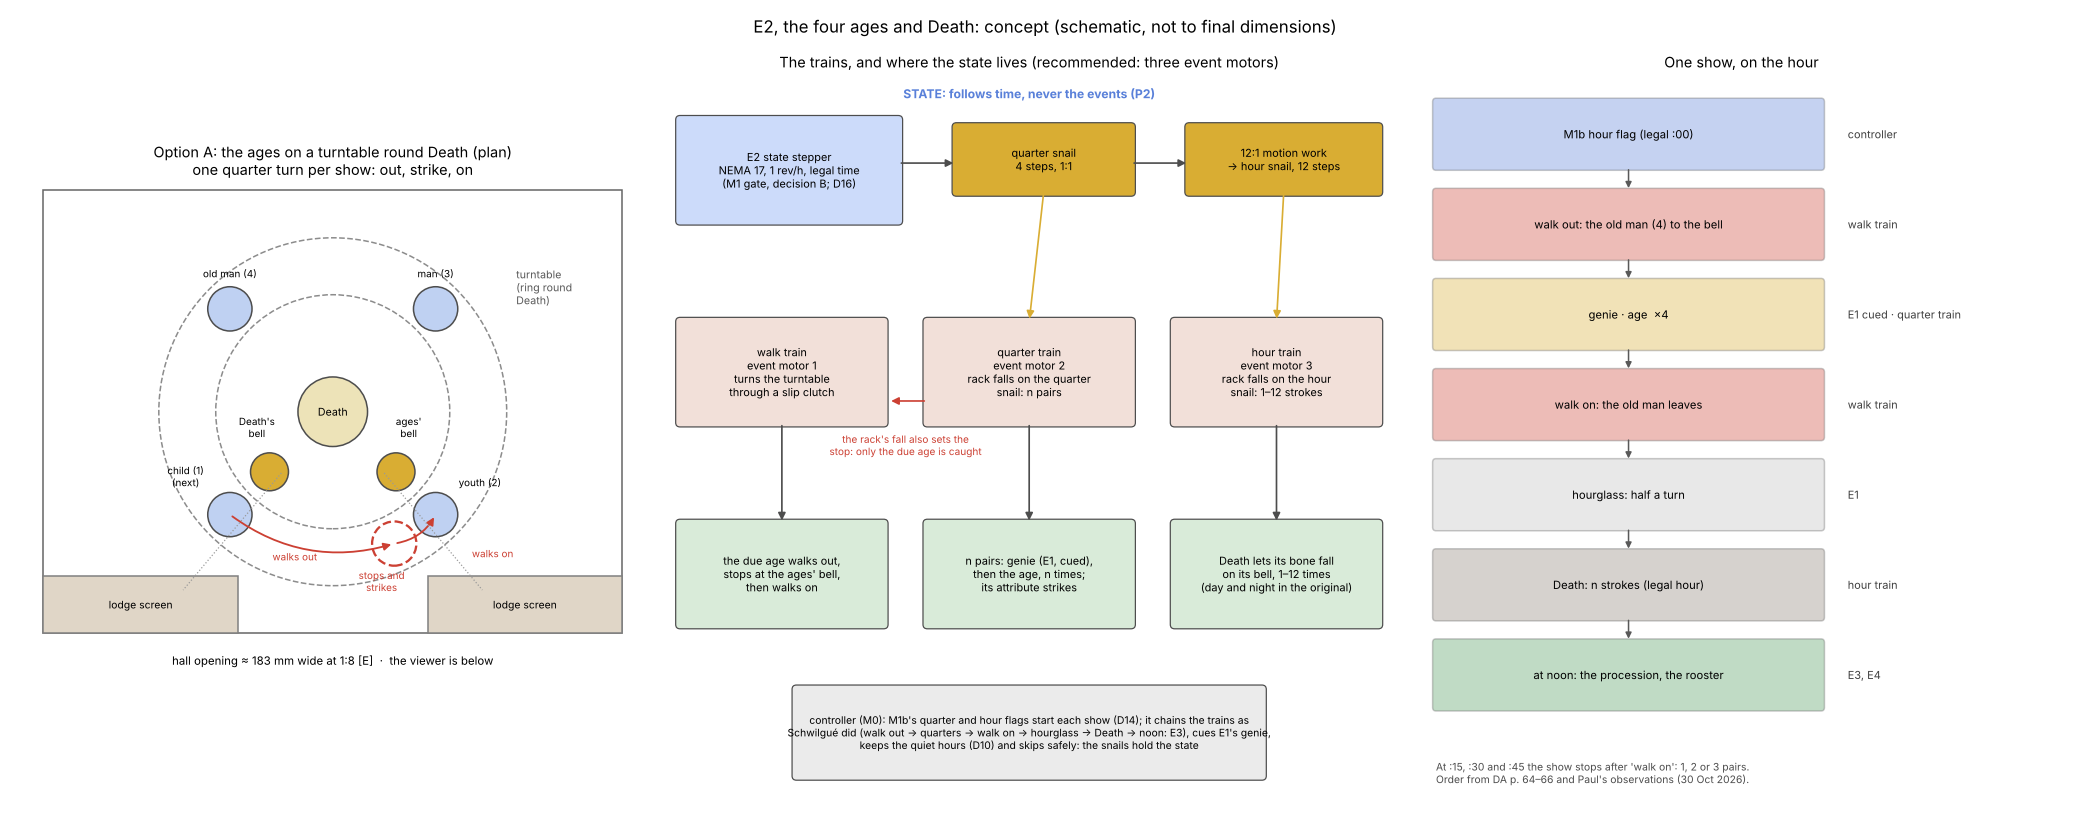
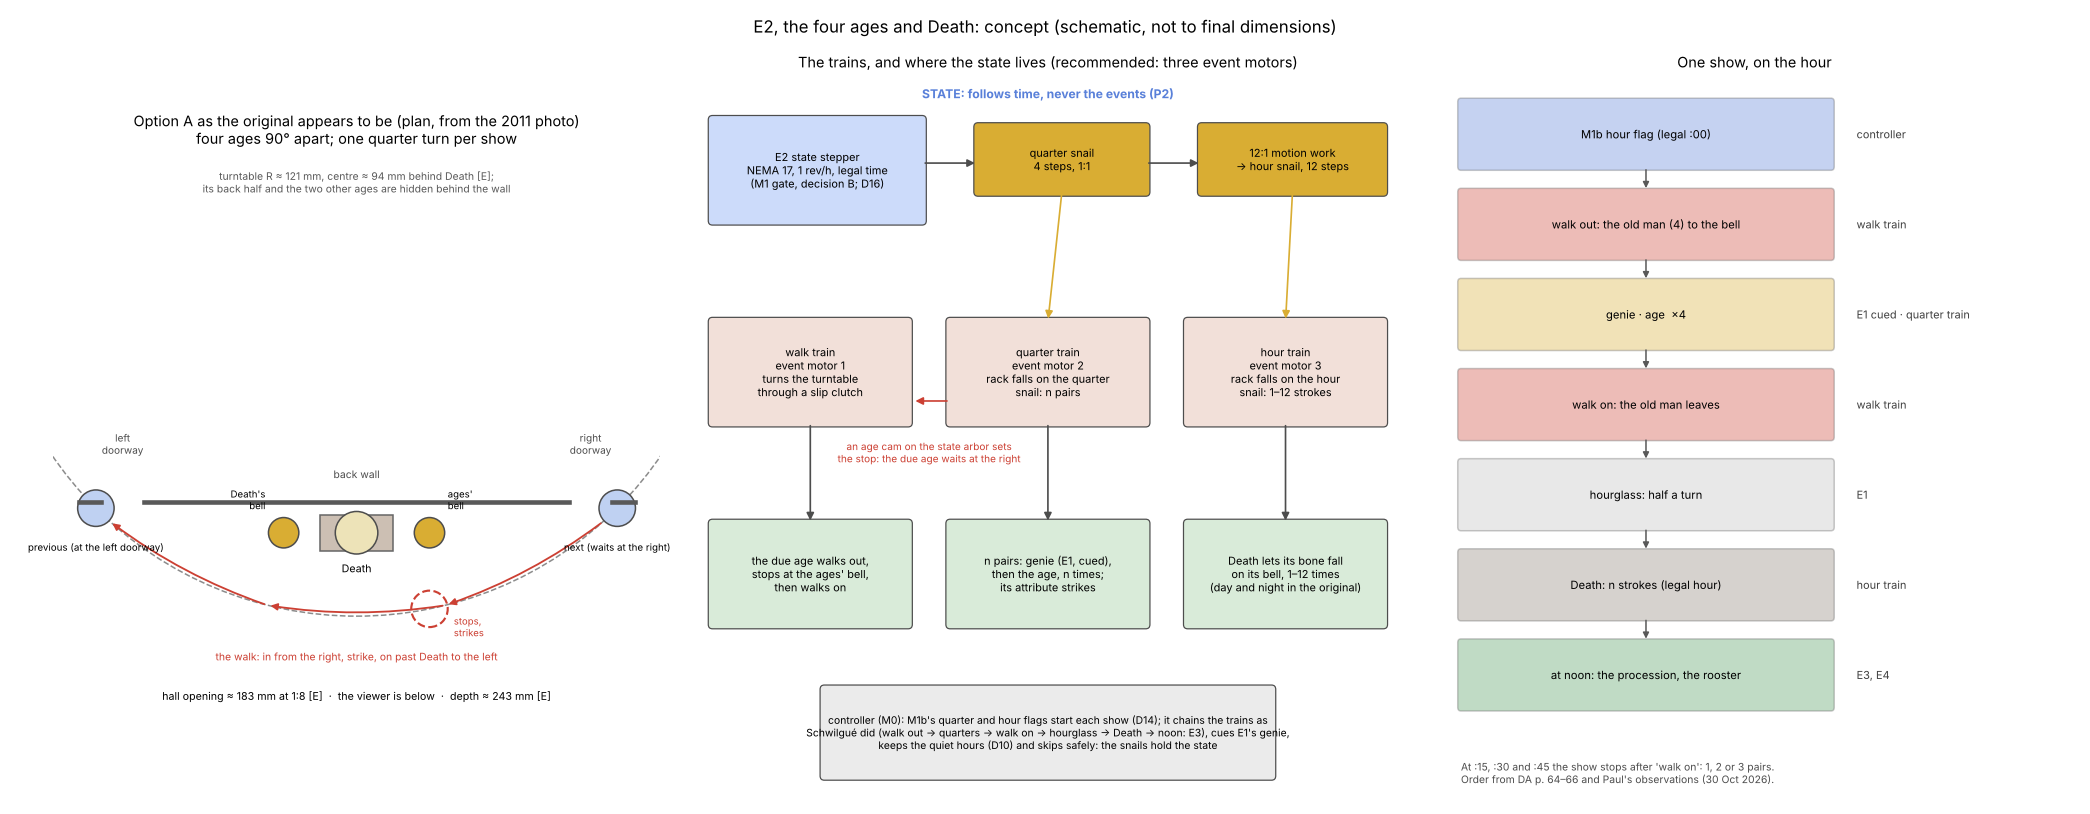
E2 concept: what the 2011 photograph of the lower hall shows
Paul found a public-domain photograph (Tangopaso, Wikimedia Commons, 7 Dec
2011, 12:24 CET = 11:55 mean time) of the hall at rest.

- Two ages are in view between shows: the last at the left doorway, the next
  waiting at the right. They walk right to left: in from the right doorway,
  strike the right-hand bell, on past Death, out by the left doorway.
- So the waiting age must be right between shows: the turntable's stop is now
  set by an age cam on the state arbor (the due age waits at the right), and
  the controller runs the walk train alone after quiet hours or a power cut.
- Death ≈ 0.62 m (0.52-0.74), so ≈ 78 mm at 1:8; bells ≈ 21 mm, ±24 mm from
  Death [E, method in e2-design §2 and reference-notes].
- The doorways and rest positions fit a ring of R ≈ 121 mm centred ≈ 94 mm
  behind Death, ≈ 243 mm deep at 1:8: a new question on the depth budget.
- Schematic redrawn to that geometry; photo crop committed with credit;
  reference-notes corrected (the 2026 photos frame only the centre);
  envelope figures row updated.

Claude-Session: https://claude.ai/code/session_01Tndyw9tksT61hV2osW21zT

diff --git a/docs/e2-design.md b/docs/e2-design.md
@@ -9,7 +9,16 @@ Death strikes the hour.
 
 <p align="center"><img src="img/e2/e2_concept.png" width="980" alt="Schematic: the hall in plan with the four ages on a turntable round Death and the two bells; the trains and where the state lives; the order of one show on the hour"></p>
 
-*Schematic only, not to final dimensions. The hall's width is from `docs/envelope.md` §3 [E].*
+*Schematic only, not to final dimensions. The hall's width is from `docs/envelope.md` §3 [E]. The
+hall's plan is scaled from the 2011 photograph below [E].*
+
+<p align="center"><img src="img/e2/original_lower_hall_2011.jpg" width="760" alt="The original lower hall on 7 December 2011 at 12:24 CET: Death on its pedestal between two bells; the man (third quarter) going into the left doorway, back turned; the old man (fourth quarter) waiting at the right with his crutch"></p>
+
+*The lower hall at rest, 7 Dec 2011, 12:24 CET, which is 11:55 Strasbourg mean time [D: mean =
+CET − 29 min]. The man struck at 11:45 and stands at the left doorway, back turned. The old man,
+who strikes at 12:00, waits at the right. Photograph: Tangopaso, Wikimedia Commons,
+"Death_and_old_man_of_the_astronomical_clock_of_Strasbourg.jpg", released into the public domain
+(crop, downscaled). Found by Paul.*
 
 ## 1. What E2 does
 
@@ -36,8 +45,17 @@ Death strikes the hour.
     the bell at its right, which is the **viewer's left**, 1 to 12 times, day and night.
   - Paul's photographs IMG_0769 and IMG_0770 (10:10 CET) show:
     - Death with the bone raised in its right hand and the scythe in its left;
-    - a bell on each side of Death;
-    - **no age in view**: between quarters every age is hidden.
+    - a bell on each side of Death.
+  - Those two photographs frame only the centre of the hall, so they do not show the doorways.
+- **The hall at rest** [S: the 2011 photograph above; its clock agrees with the shows' schedule].
+  - **Two ages are in view between shows.** The one that struck last stands at the left doorway
+    with its back turned. The next one waits at the right, facing Death.
+  - **They walk from right to left.** Each comes in from the right doorway, strikes the bell at the
+    viewer's right of Death, walks on in front of Death, and goes out by the left doorway. That
+    matches Paul's "walks on past Death".
+  - The bells hang mouth down from curved brackets on posts, one either side of Death at about its
+    waist.
+  - The doorways sit at the two ends of the back wall. The hall's front is convex, a shallow bay.
 - **The order of the trains** [S: DA p. 64–66, quoted in `docs/architecture.md` §5].
   - Schwilgué gave E2's work to **three separate trains**:
     1. the "rouage des quatre âges" moves the age out;
@@ -60,9 +78,12 @@ Death strikes the hour.
 | Height of the hall | ≈ 1324 mm above the floor at 1:8; E3's hall ≈ 149 mm above it | [E: envelope §2]; [D: 1473 − 1324] |
 | Hall opening | ≈ 1.46 m wide, so **≈ 183 mm at 1:8** | [E: envelope §3] |
 | Depth available | TBD: the case depth is still open | `docs/reference-notes.md`, open items |
-| Figure heights (ages, Death) | **[?] ≈ 57 mm or ≈ 88 mm at 1:8**: 0.46 m in one source, ≈ 0.70 m as drawn on the plate | [S: WIKI] vs [E: plate]; envelope §3 says "resolve with a photo" (§7, question 1) |
-| Bells | two, either side of Death, each about 0.44 of Death's visible height wide, so **≈ 25–40 mm at 1:8** if Death is 0.46–0.70 m | [E: measured on IMG_0770, ±25 %] |
-| Which way the ages walk | in front of Death to the bell at the viewer's right, then on past Death; the side they enter from is not recorded | [S: Paul's observation]; the entry side is [?] (§7, question 2) |
+| Death's height | **≈ 0.62 m, so ≈ 78 mm at 1:8** (range 0.52–0.74 m, 65–92 mm) | [E: 2011 photograph. Death is 0.349 of the hall's width as seen, corrected by 1/cos 35° for the upward view; 0.349 × 1.46 m / 0.82. The view angle comes from the bells' rim ellipses (axis ratio 0.58–0.64, so 35–40°; 30° allowed for tilt). The hall's width is ±11 % (envelope §3)] |
+| The ages' heights | the old man as tall as Death, though stooped; the man appears about 0.8 of Death, but he is turned away in the doorway; the youth and the child are not in the photograph | [E: same photograph]; [?] for the child and the youth |
+| Bells | **≈ 0.17 m across, so ≈ 21 mm at 1:8**, their centres ≈ 24 mm either side of Death's axis | [E: 0.113 and 0.133 of the hall's width; widths are not foreshortened; ±11 %] |
+| Which way the ages walk | **in from the right doorway, strike at the right-hand bell, on past Death, out by the left doorway** | [S: 2011 photograph and Paul's observation] |
+| Rest state | the last age stands at the left doorway, the next waits at the right; both in view | [S: 2011 photograph, 12:24 CET = 11:55 mean time, between the 11:45 and 12:00 shows] |
+| Turntable that fits these positions | four ages 90° apart on a ring of R ≈ 121 mm, its centre ≈ 94 mm behind Death; the front of the ring ≈ 27 mm in front of Death; **≈ 243 mm deep in all** | [D: a circle through both doorways (±0.42 of the hall's width, at Death's depth) and 0.15 of the width in front of Death; the photograph's rest positions (±0.41 and −0.46 of the width) fall at ±45° on it] |
 | Stroke cadence | not recorded | [?] (§7, question 2) |
 | How the original moves the ages | not described in DA; Ungerer 1922 and Bach et al. 1992 may show it | [?]: the books are still to obtain |
 | State arbor | 1 rev/h, legal time; quarter snail 1:1; hour snail through 12:1 (12/48 · 15/45, as M1's motion work) | [S: M1 gate, decision 1; architecture §3] |
@@ -83,8 +104,10 @@ As everywhere: **pass timing electrically and position mechanically** (architect
 - What must match the time is in the state train: which age is due, how many pairs, and Death's
   count.
 - The event motors only supply the energy for each show.
-- Between shows every age is hidden, so a skipped show (quiet hours, catch-up, a fault) can never
-  leave anything visibly wrong.
+- **Between shows the next age is in view**, waiting at the right. So a skipped show (quiet
+  hours, catch-up, a fault) would leave the wrong age waiting. The walk train therefore always
+  stops on an age chosen by the state train (4.2), and the controller runs it alone, silently,
+  after any skip (4.5).
 
 ## 4. Proposed concept
 
@@ -103,22 +126,29 @@ As everywhere: **pass timing electrically and position mechanically** (architect
 **4.2 The quarter train: the count and the choice of age.**
 - When released, a rack falls onto the quarter snail. Its fall (1–4 steps) sets the number of pairs,
   as in rack quarter-striking.
-- **The same fall also picks the age.** The rack positions a stop finger at one of four radii.
+- **The state train picks the age.** A four-step age cam on the state arbor sets a stop finger at
+  one of four radii.
   - Each age has a peg at its own radius on the turntable (option A, §5).
-  - So only the due age's peg meets the finger.
+  - So only the age that is due next can stop at the waiting position, at the right doorway.
+  - The age cam steps just after each show starts, a quarter ahead of the quarter snail.
+    Whenever the walk train stops, the next due age is waiting.
 - Each stroke cycle closes a cue switch. The controller fires E1's genie, and the age's stroke
   follows a moment later on the cam.
 - The age strikes the ages' bell with its attribute. A lifter at the bell station raises the arm
   of whichever age stands there, and the arm falls onto the bell.
 
 **4.3 The walk.**
-- The walk train turns the turntable through a slip clutch until the due age's peg meets the stop
-  finger. That puts the age at the bell.
-- After the strikes, the walk train lifts the finger and runs on to the rest position: the next
-  quarter turn, with all ages hidden behind the lodge screens.
-- **If shows were skipped**, the turntable simply runs further at the next show. The skipped ages
-  pass without striking, until the due age meets the finger. So it corrects itself, as a rack on a
-  snail does.
+- At rest the due age waits at the right doorway, held by the age cam's stop, and the last one
+  stands at the left doorway.
+- **The show.**
+  1. The walk train lifts the stop and turns the turntable through a slip clutch. A fixed cam
+     brings the waiting age to the bell, a short move.
+  2. The quarter train strikes.
+  3. The walk train walks the age on past Death to the left doorway. The turntable stops when
+     the next due age reaches the waiting position: a quarter turn in all.
+- **If shows were skipped**, running the walk train simply turns on until the age cam's stop
+  catches the age now due. The skipped ages pass without striking. So it corrects itself, as a
+  rack on a snail does.
 
 **4.4 The hour train.**
 - A rack falls onto the hour snail (1–12).
@@ -130,7 +160,9 @@ As everywhere: **pass timing electrically and position mechanically** (architect
 **4.5 Night, catch-up and setting.**
 - Quiet hours are firmware (D10). The minimal faithful setting silences the ages at night, while
   Death strikes day and night [S: DA p. 58, 65].
-- After quiet hours or a power cut, the first show catches the turntable up by itself (4.3).
+- At the end of quiet hours, and after a power cut, the controller runs the walk train alone,
+  silently (4.3). Then the right age waits in view. Nothing else needs catching up: the snails
+  are on the state arbor.
 - No hands to set: the state arbor's phase is the stepper's (P1). The hour snail is meshed at its
   mark at commissioning, and its witness checks it.
 
@@ -140,13 +172,13 @@ All three options keep the state in the state train. They differ in how the age 
 
 | Option | How | For | Against |
 |---|---|---|---|
-| **A. Turntable round Death, stopped by the state** (4.2–4.3) | The four ages stand 90° apart on a ring round Death's fixed pedestal. Each show turns it a quarter turn in two moves: out to the bell, then on behind the right-hand lodge screen. | Matches what Paul saw: out in front of Death, strike, walk on. One rigid, printable part on one bearing. It corrects itself after skipped shows. | Two stops to design (the selected stop and the rest stop) and a slip clutch. The depth needed is about the ring's diameter. |
+| **A. Turntable, stopped by the state** (4.2–4.3) | The four ages stand 90° apart on a ring whose centre is behind the back wall. Only its front arc, between the two doorways, is in view. Each show turns it a quarter turn: in from the right, strike, out by the left. | Matches the 2011 photograph and Paul's observation, including the two ages in view at rest. One rigid, printable ring (Ø ≈ 243 mm, within the bed) on one bearing. It corrects itself after skipped shows. | **About 243 mm of depth** at the original's geometry [E]. A smaller ring, with the doorways moved in, needs less depth but spoils the look. Two stops and a slip clutch to design. |
 | B. Turntable geared to the state arbor | The ring turns continuously at 1 rev/h. Each age reaches the bell at its own quarter. | The simplest: no walk motor, no stops, no clutch. Nothing can get out of step. | The ages creep all the time. With a visible arc of ≈ 80°, an age is in view for ≈ 13 min each hour, so one is in view ≈ 53 min of every hour [D: 80/360 × 60 × 4]. Not what Paul saw. |
 | C. Four lodges, one slide per age (DA's "sort de sa loge, fait deux pas") | The state arbor turns a selector that couples the walk train to the due age's slide. The age steps out two paces, strikes, and steps back. | Follows DA's wording. Each show starts and ends at rest. | Four slides and a selector. The age goes back rather than on past Death, against Paul's observation. Four lodges take up the hall's width. |
 
 **Recommendation: A.**
-- It is the only option that matches both DA ("sort de sa loge … disparaît") and Paul's
-  observation ("walks on past Death").
+- It is the only option that matches DA ("sort de sa loge … disparaît"), Paul's observation
+  ("walks on past Death") and the 2011 photograph (two ages in view at rest).
 - It stays self-correcting.
 - The cost is the two stops and the clutch, which the detail design proves on paper first, with a
   test over every pair of resting age and due age.
@@ -166,14 +198,18 @@ All three options keep the state in the state train. They differ in how the age 
 
 ## 7. Smaller questions
 
-1. **Figure heights.** The detail design needs one height for the ages and one for Death; both are
-   [?] (57 or 88 mm, §2).
-   - **Paul, have you a photo or video frame showing the whole lower hall with an age at the bell?**
-     I can scale the figures on the hall's opening [E, ±20 %].
-   - Otherwise the figures are parametric, and I start at 70 mm until the books settle it.
-2. **The walk.** From your video, which side does the age come from: left or right of Death?
-   Roughly how many seconds are there between strokes?
-3. **The strike.**
+1. **Figure heights.** The 2011 photograph gives Death ≈ 78 mm at 1:8 (65–92 mm) [E, §2]. That is
+   nearer the plate's 88 mm than the 57 mm source.
+   - I propose Death at 78 mm, the man, youth and old man about as tall, and the child smaller.
+   - All of them are parametric, so the books can still correct them.
+   - The 57 mm Apostles in `CLAUDE.md` came from the same 18-inch source. E3 will need the same
+     check against a photograph.
+2. **The walk.** Its direction is settled: in from the right, out by the left (§1). Still open, from
+   your video: roughly how many seconds are there between strokes, and how long does the walk
+   take?
+3. **Depth.** The faithful turntable needs about 243 mm of depth at E2's level (§2). Is that
+   acceptable, or should I plan a shallower ring? The case depth is still open.
+4. **The strike.**
    - **Recommended:** the age's own attribute strikes the bell, as in the original. It is soft,
      which suits a living room (D8).
    - **Fallback:** a hidden hammer moved with the arm, if the test bells sound too weak.

diff --git a/docs/reference-notes.md b/docs/reference-notes.md
@@ -944,10 +944,37 @@ Crop of the gallery from IMG_0766 (below): `docs/img/m1/original_gallery.jpg`.
 - Death stands on a pedestal holding a bone in its right hand and the scythe in its left, with
   **a bell on each side**. DA mentions "le timbre à sa droite" [S: DA p. 57–58]. Which bell the ages
   strike is for E2's design.
-- **No age is in view** at 10:10–10:11 CET, between quarters: the ages are hidden while they wait
-  [S: IMG_0769, IMG_0770].
-- Each bell is about 0.44 of Death's visible height wide (from the balustrade up), so ≈ 25–40 mm
-  at 1:8 [E: measured on IMG_0770, ±25 %; `docs/e2-design.md` §2].
+- These two photographs frame only the centre of the hall, so they do not show the doorways where
+  the ages wait. (An earlier note here said "no age is in view"; the 2011 photograph below shows
+  that two ages are in view at rest, at the doorways.)
+
+**The lower hall at rest, 7 Dec 2011** [S: Tangopaso, Wikimedia Commons,
+https://commons.wikimedia.org/wiki/File:Death_and_old_man_of_the_astronomical_clock_of_Strasbourg.jpg,
+released into the public domain; original 4416 × 3312, taken 7 Dec 2011 12:24:24. Found by Paul,
+6 Nov 2026. Crop: `docs/img/e2/original_lower_hall_2011.jpg`]
+- 12:24 CET is 11:55 Strasbourg mean time [D: mean = CET − 29 min], between the 11:45 and 12:00
+  shows. The ages' positions agree with that:
+  - **the man** (third quarter) stands at the left doorway, back turned, going out;
+  - **the old man** (fourth quarter, next) waits at the right, facing Death, crutch in hand.
+- So **two ages are in view at rest**, and they walk **from right to left**: in from the right
+  doorway, strike the bell at the viewer's right of Death, on in front of Death, out by the left
+  doorway. This agrees with Paul's observation.
+- **The hall.**
+  - Death stands on a low pedestal in the middle.
+  - The two bells hang mouth down from curved brackets on posts, either side of Death at waist
+    height.
+  - The back wall is arcaded, with a doorway at each end. The front is convex, a shallow bay.
+- **Measured** [E] in the 2000 × 1500 copy, as fractions of the hall's width W at the vault's
+  front edge (1433 px), with W = 1.46 m ±11 % (envelope §3):
+  - Death: 0.349 W tall as seen. Corrected for the upward view by 1/cos θ, with θ = 30–40° from the
+    bells' rim ellipses (axis ratio 0.58–0.64), that gives **≈ 0.62 m (0.52–0.74 m), ≈ 78 mm at
+    1:8**.
+  - Old man: as tall as Death, though stooped. The man appears about 0.8 of Death, but he is
+    turned away in the doorway.
+  - Bells: **0.113 W across, ≈ 0.17 m, ≈ 21 mm at 1:8**. Their centres are ±0.133 W from Death's
+    axis (≈ 24 mm at 1:8).
+  - Doorways at ±0.42–0.51 W. Waiting ages at +0.41 W and −0.46 W.
+- This replaces the bell estimate above (25–40 mm), which had assumed Death's height.
 
 **Upper hall** [S: Paul's photograph IMG_0771]
 - Christ holds the banner of the redemption in his left hand and blesses with his right, as DA

diff --git a/docs/envelope.md b/docs/envelope.md
@@ -104,7 +104,7 @@ Columns:
 | Moon-phase globe | M5 | **Ø 0.40 m**, half gilt, half black; axis tilted ~40° | **Ø 50 mm** | ~1074 mm | [S: ELS]; height [E] |
 | Lower hall (four ages, Death) | E2 | opening ~1.46 m wide | ~183 mm | ~1324 mm | [E] |
 | Upper hall (Christ, Apostles) | E3 | opening ~1.46 m wide | ~183 mm | ~1473 mm | [E] |
-| Figures (Apostles, Christ, Death) | E2, E3 | **[?]** ~18 in (0.46 m) [S: WIKI], but drawn at ~0.70 m on the plate [E] | 57 mm or 88 mm | — | Resolve with a photo; this matters for E2/E3 sizing |
+| Figures (Apostles, Christ, Death) | E2, E3 | **[?]** ~18 in (0.46 m) [S: WIKI], but drawn at ~0.70 m on the plate [E]. **Death ≈ 0.62 m (0.52–0.74)** from a 2011 photograph [E: `docs/e2-design.md` §2] | Death ≈ 78 mm; Apostles still 57 or 88 mm | — | Death and the ages resolved by photo (E2). The Apostles still need the same check (E3). |
 | Rooster | E4 | "d'après nature" (life-size) [S: DA] | TBD | top of the weight tower, ~1729 mm [E] | — |
 | Left (weight) tower | — | ~1.72 m wide; top ~13.8 m incl. rooster | ~215 mm; ~1729 mm | left | [E] |
 | Staircase tower | — | ~2.05 m wide; top ~11.3 m | ~256 mm; ~1409 mm | right | [E] |
